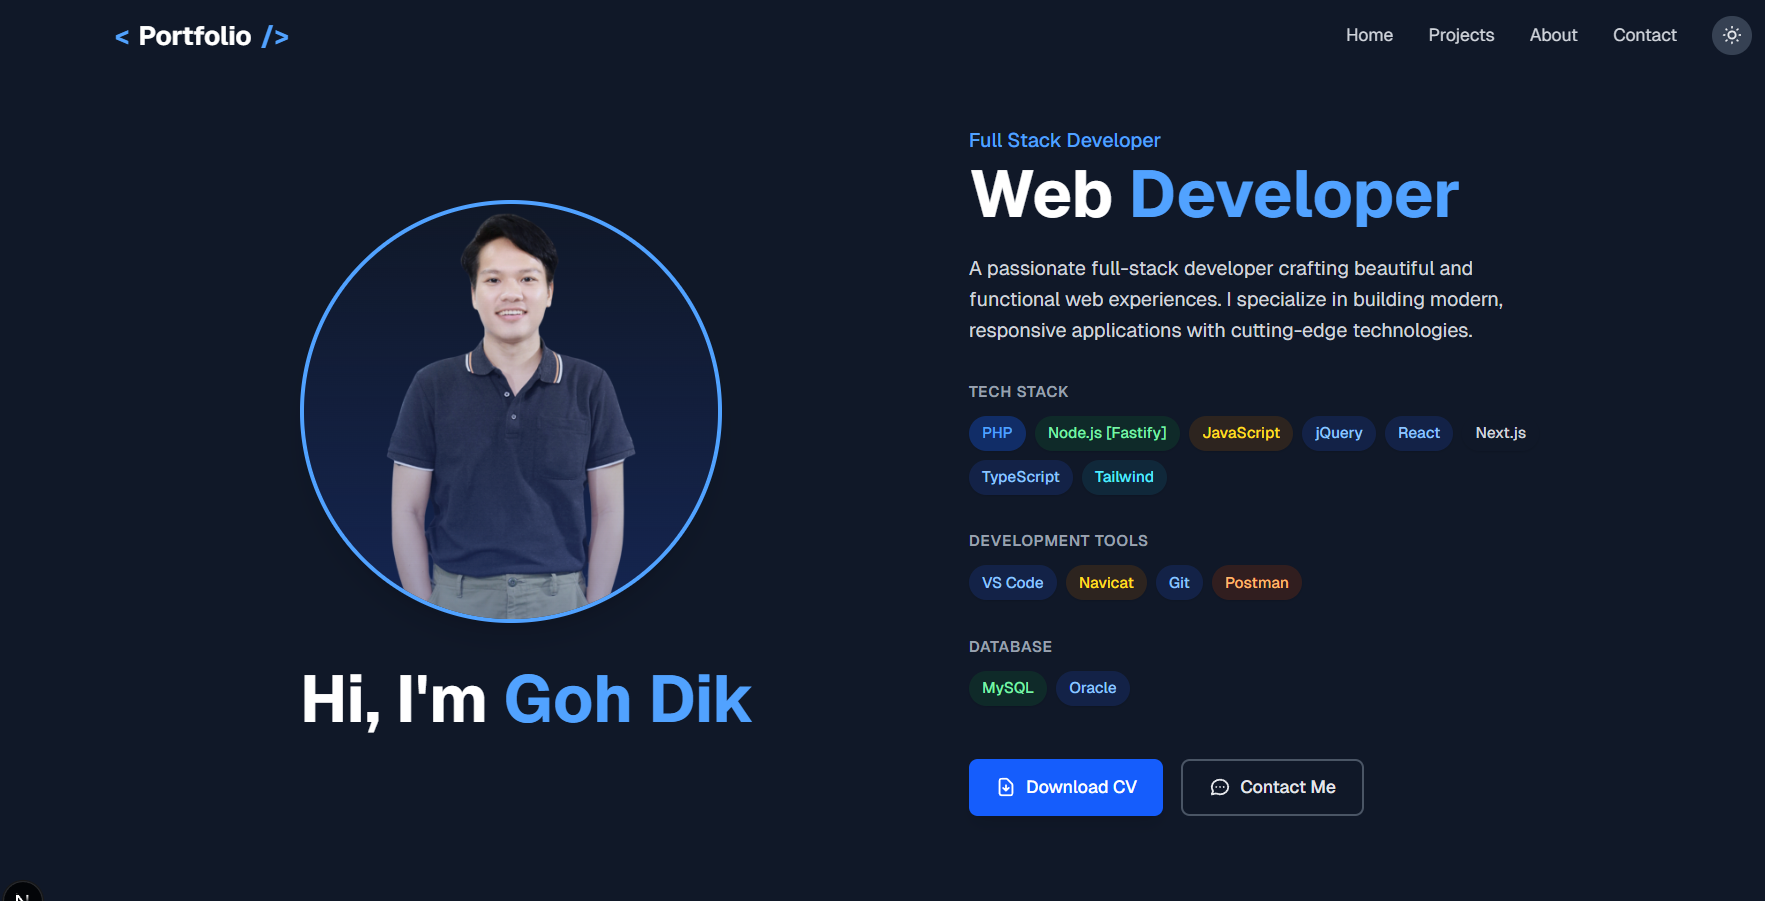
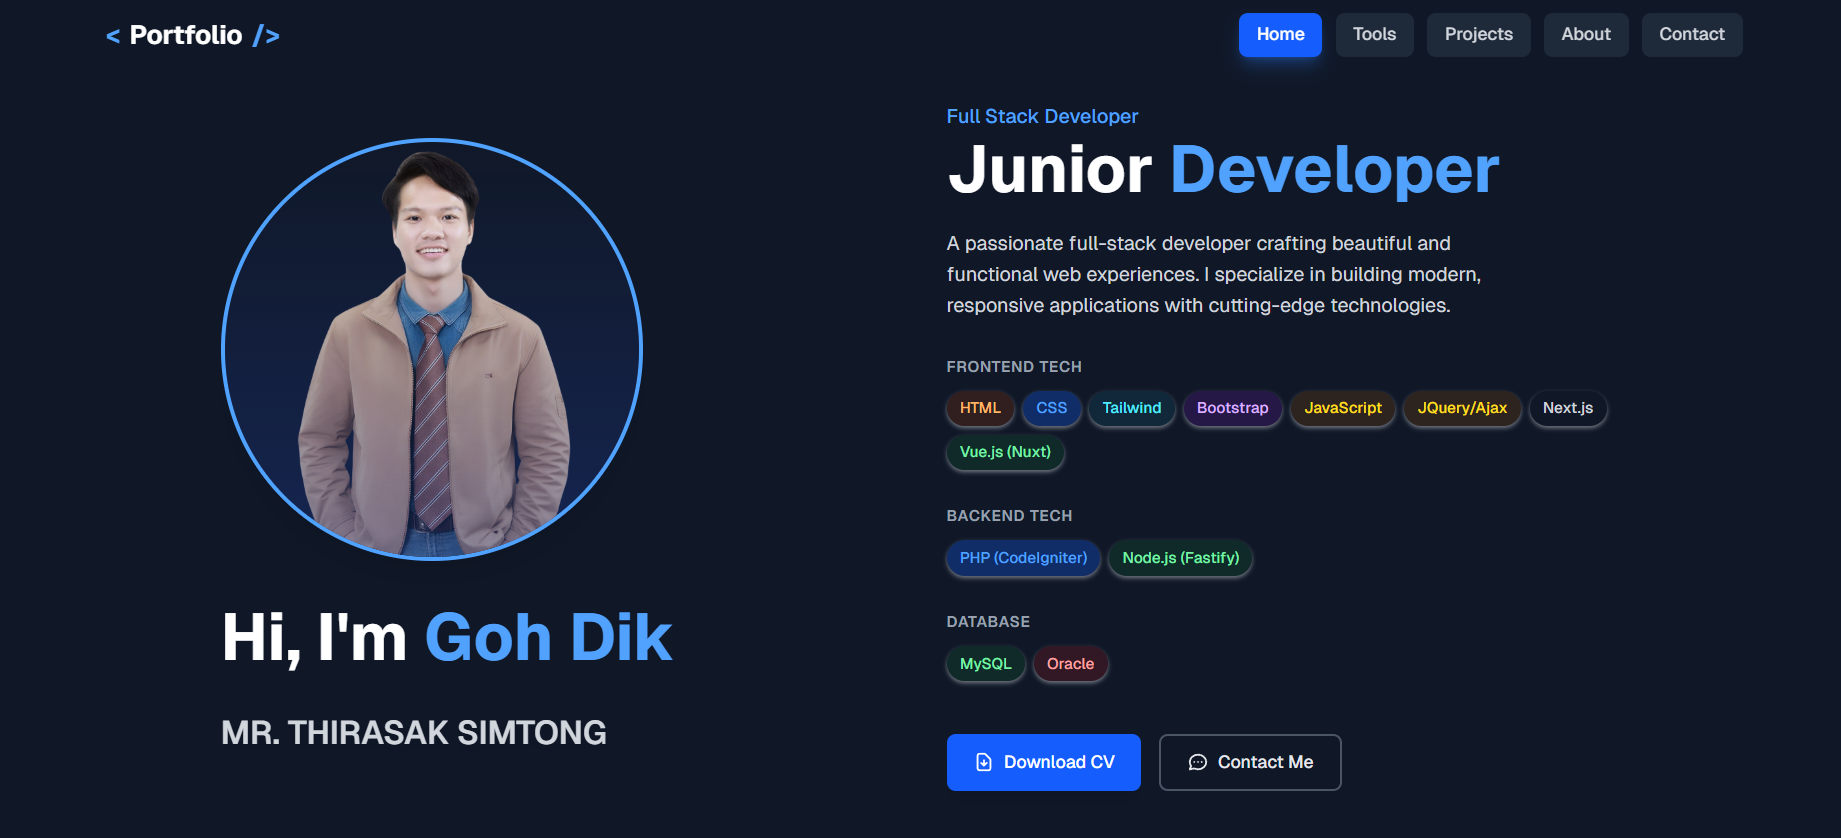
✨ Update project all file

diff --git a/components/About.jsx b/components/About.jsx
@@ -16,42 +16,83 @@ export default function About() {
           <div className="h-1 w-20 bg-blue-600 mx-auto rounded-full"></div>
         </motion.div>
         
-        <div className="grid md:grid-cols-2 gap-12 items-center">
+        <div className="grid md:grid-cols-2 gap-10 items-center">
           {/* Left side - Journey */}
           <motion.div
             initial={{ opacity: 0, x: -20 }}
             animate={{ opacity: 1, x: 0 }}
             transition={{ duration: 0.5, delay: 0.2 }}
             className="space-y-6">
-            <h3 className="text-2xl font-bold text-blue-600 dark:text-blue-400">My Journey</h3>
-            <p className="text-gray-600 dark:text-gray-300 leading-relaxed">
-                Today, I focus on creating accessible and inclusive digital products and experiences for a wide range of clients. I am constantly learning and exploring new technologies to stay current.  
-            </p>
-            <p className="text-gray-600 dark:text-gray-300 leading-relaxed">
-                When I am not in front of my computer, I am often hiking, hanging out with friends, or exploring beautiful landscapes.
-            </p>
-            
             {/* Professional Strengths */}
-            <div className="my-8">
-              <h3 className="text-2xl font-bold text-center text-blue-600 dark:text-blue-400 mb-6">Professional Strengths</h3>
-              <div className="grid grid-cols-1 md:grid-cols-1 gap-6">
+            <div className="my-10">
+              <div className="grid grid-cols-1 md:grid-cols-1 gap-10">
                 {/* Card 1: Problem Solving */}
                 <div className="group relative overflow-hidden rounded-xl bg-gradient-to-br from-blue-50 to-indigo-50 dark:from-gray-800 dark:to-gray-900 p-1">
-                  <div className="absolute inset-0 bg-gradient-to-r from-blue-500 to-indigo-600 opacity-0 group-hover:opacity-10 transition-opacity duration-300"></div>
+                  <div className="absolute inset-0 bg-gradient-to-r from-blue-500 to-indigo-600 opacity-0 group-hover:opacity-10 transition-opacity duration-300">
+                  </div>
                   <div className="relative p-6 h-full flex flex-col">
                     <div className="bg-white dark:bg-gray-800 rounded-full p-3 w-14 h-14 flex items-center justify-center mb-4 shadow-md">
                       <svg className="w-8 h-8 text-blue-600 dark:text-blue-400" fill="none" stroke="currentColor" viewBox="0 0 24 24" xmlns="http://www.w3.org/2000/svg">
                         <path strokeLinecap="round" strokeLinejoin="round" strokeWidth="2" d="M9.663 17h4.673M12 3v1m6.364 1.636l-.707.707M21 12h-1M4 12H3m3.343-5.657l-.707-.707m2.828 9.9a5 5 0 117.072 0l-.548.547A3.374 3.374 0 0014 18.469V19a2 2 0 11-4 0v-.531c0-.895-.356-1.754-.988-2.386l-.548-.547z"></path>
                       </svg>
                     </div>
-                    <h4 className="text-xl font-bold mb-3 text-gray-900 dark:text-white group-hover:text-blue-600 dark:group-hover:text-blue-400 transition-colors duration-300">Junior Developer</h4>
+                    <h4 className="text-xl font-bold mb-3 text-blue-600 dark:text-blue-400 group-hover:text-blue-600 dark:group-hover:text-blue-400 transition-colors duration-300">Strength</h4>
                     <p className="text-gray-600 dark:text-gray-300 flex-grow">Junior Developer with full-cycle development experience, from client requirements to delivery. Strong communicator and team player, seeking a structured dev team to grow and focus on software development.</p>
                     <div className="mt-4 pt-4 border-t border-gray-200 dark:border-gray-700">
-                      <span className="text-blue-600 dark:text-blue-400 text-sm font-medium">Strength</span>
                     </div>
                   </div>
                 </div>
+              </div>
+            </div>
 
+            <div className="bg-white dark:bg-gray-800 p-6 rounded-xl shadow-lg hover:shadow-xl transition-shadow duration-300 relative overflow-hidden">
+              {/* Glow effect */}
+              <div className="absolute -top-10 -right-10 w-40 h-40 bg-blue-400/10 rounded-full blur-3xl"></div>
+              <div className="absolute -bottom-8 -left-8 w-32 h-32 bg-indigo-400/10 rounded-full blur-2xl"></div>
+              
+              <div className="relative z-10">  {/* Content above the glow */}
+                <h3 className="text-2xl font-bold text-blue-600 dark:text-blue-400 mb-4 flex items-center">
+                  <svg className="w-6 h-6 mr-2 drop-shadow-md" fill="none" stroke="currentColor" viewBox="0 0 24 24" xmlns="http://www.w3.org/2000/svg">
+                    <path strokeLinecap="round" strokeLinejoin="round" strokeWidth="2" d="M12 6.253v13m0-13C10.832 5.477 9.246 5 7.5 5S4.168 5.477 3 6.253v13C4.168 18.477 5.754 18 7.5 18s3.332.477 4.5 1.253m0-13C13.168 5.477 14.754 5 16.5 5c1.747 0 3.332.477 4.5 1.253v13C19.832 18.477 18.247 18 16.5 18c-1.746 0-3.332.477-4.5 1.253"></path>
+                  </svg>
+                  My Journey
+                </h3>
+                <p className="text-gray-600 dark:text-gray-300 leading-relaxed border-l-4 border-blue-400 pl-4 italic">
+                I’ve recently taken my skills to the next level by focusing on building visually appealing and modern websites. I’ve been actively working with up-to-date technologies such as <span className="bg-blue-100 dark:bg-blue-900/30 px-1.5 py-0.5 rounded text-blue-800 dark:text-blue-300 font-medium shadow-sm hover:shadow-blue-200/50 dark:hover:shadow-blue-500/20 transition-shadow">Tailwind CSS</span>, <span className="bg-blue-100 dark:bg-blue-900/30 px-1.5 py-0.5 rounded text-blue-800 dark:text-blue-300 font-medium shadow-sm hover:shadow-blue-200/50 dark:hover:shadow-blue-500/20 transition-shadow">Next.js, Nuxt.js</span> for the frontend, along with <span className="bg-blue-100 dark:bg-blue-900/30 px-1.5 py-0.5 rounded text-blue-800 dark:text-blue-300 font-medium shadow-sm hover:shadow-blue-200/50 dark:hover:shadow-blue-500/20 transition-shadow">Node.js + Fastify </span> for backend development. This journey reflects my passion for both design and performance in web development.  
+                </p>
+              </div>
+            </div>
+
+            {/* Interests Section */}
+            <div className="bg-gradient-to-r from-blue-50 to-indigo-50 dark:from-gray-800 dark:to-gray-700 p-6 rounded-xl shadow-lg relative overflow-hidden">
+              {/* Glow effects */}
+              <div className="absolute -top-12 -left-12 w-36 h-36 bg-blue-300/10 rounded-full blur-3xl"></div>
+              <div className="absolute -bottom-10 -right-10 w-40 h-40 bg-indigo-300/10 rounded-full blur-3xl"></div>
+              
+              <div className="relative z-10">  {/* Content above the glow */}
+                <h3 className="text-xl font-bold text-blue-600 dark:text-blue-400 mb-4 flex items-center">
+                  <svg className="w-6 h-6 mr-2 drop-shadow-md" fill="none" stroke="currentColor" viewBox="0 0 24 24" xmlns="http://www.w3.org/2000/svg">
+                    <path strokeLinecap="round" strokeLinejoin="round" strokeWidth="2" d="M14.828 14.828a4 4 0 01-5.656 0M9 10h.01M15 10h.01M21 12a9 9 0 11-18 0 9 9 0 0118 0z"></path>
+                  </svg>
+                  Hobbies & Interests
+                </h3>
+                <div className="grid grid-cols-3 gap-4 mt-4">
+                  <div className="bg-white dark:bg-gray-800 p-3 rounded-lg shadow-md flex flex-col items-center justify-center text-center hover:shadow-lg transition-all transform hover:-translate-y-1 hover:shadow-blue-200/50 dark:hover:shadow-blue-500/20 relative overflow-hidden">
+                    <div className="absolute inset-0 bg-gradient-to-br from-blue-100/30 to-transparent dark:from-blue-500/10 dark:to-transparent opacity-0 hover:opacity-100 transition-opacity duration-300"></div>
+                    <span className="text-3xl mb-2 relative z-10 drop-shadow-sm">🌄</span>
+                    <span className="font-medium text-gray-800 dark:text-gray-200 relative z-10">Hiking</span>
+                  </div>
+                  <div className="bg-white dark:bg-gray-800 p-3 rounded-lg shadow-md flex flex-col items-center justify-center text-center hover:shadow-lg transition-all transform hover:-translate-y-1 hover:shadow-blue-200/50 dark:hover:shadow-blue-500/20 relative overflow-hidden">
+                    <div className="absolute inset-0 bg-gradient-to-br from-blue-100/30 to-transparent dark:from-blue-500/10 dark:to-transparent opacity-0 hover:opacity-100 transition-opacity duration-300"></div>
+                    <span className="text-3xl mb-2 relative z-10 drop-shadow-sm">🎵</span>
+                    <span className="font-medium text-gray-800 dark:text-gray-200 relative z-10">Sing</span>
+                  </div>
+                  <div className="bg-white dark:bg-gray-800 p-3 rounded-lg shadow-md flex flex-col items-center justify-center text-center hover:shadow-lg transition-all transform hover:-translate-y-1 hover:shadow-blue-200/50 dark:hover:shadow-blue-500/20 relative overflow-hidden">
+                    <div className="absolute inset-0 bg-gradient-to-br from-blue-100/30 to-transparent dark:from-blue-500/10 dark:to-transparent opacity-0 hover:opacity-100 transition-opacity duration-300"></div>
+                    <span className="text-3xl mb-2 relative z-10 drop-shadow-sm">📷</span>
+                    <span className="font-medium text-gray-800 dark:text-gray-200 relative z-10">Photography</span>
+                  </div>
+                </div>
               </div>
             </div>
           </motion.div>
@@ -69,7 +110,21 @@ export default function About() {
                   <div className="absolute w-4 h-4 bg-blue-600 dark:bg-blue-400 rounded-full -left-[9px] top-0"></div>
                   <h4 className="text-lg font-bold">Junior Developer</h4>
                   <p className="text-blue-600 dark:text-blue-400">BIZPOTENTIAL • Present</p>
-                  <p className="mt-2 text-gray-600 dark:text-gray-300">Developing web applications using PHP (CodeIgniter), MySQL, Oracle, JavaScript, jQuery, and Bootstrap.</p>
+                  <p className="mt-2 text-gray-600 dark:text-gray-300">Developing and maintaining web applications using PHP (CodeIgniter), MySQL, Oracle, JavaScript, jQuery/ajax, and Bootstrap. Key responsibilities include:</p>
+                  <ul className="mt-2 list-disc list-inside text-gray-600 dark:text-gray-300 ml-2">
+                    <li>Developed ERP modules based on organizational needs </li>
+                    <li>Analyzed user requirements and implemented system enhancements based on feedback</li>
+                    <li>Provided technical support, resolved issues, and offered system usage guidance</li>
+                    <li>Participated in stakeholder meetings for requirement gathering and continuous improvement</li>
+                    <li>Developed and maintained internal information systems to ensure stability and efficiency</li>
+                    <li>Worked on systems such as:
+                      <ul className="ml-6 mt-1 list-disc list-inside text-gray-600 dark:text-gray-300">
+                        <li>Financial Information System for Cooperatives</li>
+                        <li>Cooperative Membership & Shareholding System</li>
+                        <li>Farmer Database Management System</li>
+                      </ul>
+                    </li>
+                  </ul>
                 </div>
               </div>
             </div>

diff --git a/data/projects.ts b/data/projects.ts
@@ -1,7 +1,7 @@
 const projects = [
     {
         name: 'my-portfolio-spa',
-        description: 'Portfolio Online',
+        description: 'Portfolio Single Page Application',
         tech: ['Next.js', 'Tailwind', 'JavaScript'],
         image: '/my_profile.png',
         github: 'https://github.com/gohdick/my-portfolio-spa',
@@ -9,7 +9,7 @@ const projects = [
     },
     {
         name: 'store-wine',
-        description: 'เว็บไซต์ขายไวน์',
+        description: 'WebApplication for Wine Store',
         tech: ['Node.js (Fastify)', 'Frontend: Vue.js (Nuxt)', 'MySQL', 'Tailwind', 'JavaScript', 'JWT', 'RESTful API'],
         features: ['JWT'],
         image: '/wine_01.png',
@@ -17,22 +17,13 @@ const projects = [
         demo: '#'
     },
     {
-        name: 'daily-expense',
-        description: 'ระบบบันทึกค่าใช้จ่ายรายวัน',
-        tech: ['Next.js', 'Tailwind', 'JavaScript'],
-        image: '/daily_expense_p1.png',
-        github: 'https://github.com/gohdick/daily-expense',
-        demo: 'https://daily-expense.goohdik.dev'
-    },
-    {
-        name: 'habit-tracker',
-        description: 'ระบบ Habit Tracker (ติดตามนิสัยดี ๆ)',
-        tech: ['Next.js', 'Tailwind', 'JavaScript'],
-        image: '/habit_tracker_p1.png',
-        github: 'https://github.com/gohdick/habit-tracker',
-        demo: 'https://habit-tracker.goohdik.dev'
+        name: 'weather-app',
+        description: 'WebApplication for Weather',
+        tech: ['Nuxt', 'Tailwind', 'JavaScript', 'API OpenWeatherMap'],
+        image: '/weather_01.png',
+        github: '#',
+        demo: '#'
     }
-
 ]
 
 export default projects

diff --git a/data/Toolsandskills.ts b/data/Toolsandskills.ts
@@ -1,20 +1,6 @@
 // Category data
 export const categories = [
   {
-    name: "AI Tools",
-    icons: ["/icons8-chatgpt.svg", "/claude-ai-icon.svg"],
-    iconAlts: ["ChatGPT", "Claude"],
-    color: "from-blue-500 to-purple-600",
-    shadowColor: "rgba(59, 130, 246, 0.5)"
-  },
-  {
-    name: "Design Tools",
-    icons: ["/icons8-photoshop.svg", "/icons8-canva.svg"],
-    iconAlts: ["Photoshop", "Canva"],
-    color: "from-pink-500 to-red-500",
-    shadowColor: "rgba(236, 72, 153, 0.5)"
-  },
-  {
     name: "Development Tools",
     icons: ["/icons8-visual-studio.svg", "/icons8-navicat.svg", "/icons8-git.svg", "/icons8-github.svg", "/postman-icon.svg", "/Cloudflare-Logo.wine.png", "/Nginx-proxy-manager.png"],
     iconAlts: ["VS Code", "Navicat", "Git", "GitHub", "Postman", "Cloudflare", "Nginx"],
@@ -28,6 +14,20 @@ export const categories = [
     color: "from-green-500 to-teal-500",
     shadowColor: "rgba(16, 185, 129, 0.5)"
   },
+  {
+    name: "AI Tools",
+    icons: ["/icons8-chatgpt.svg", "/claude-ai-icon.svg"],
+    iconAlts: ["ChatGPT", "Claude"],
+    color: "from-blue-500 to-purple-600",
+    shadowColor: "rgba(59, 130, 246, 0.5)"
+  },
+  {
+    name: "Design Tools",
+    icons: ["/icons8-photoshop.svg", "/icons8-canva.svg"],
+    iconAlts: ["Photoshop", "Canva"],
+    color: "from-pink-500 to-red-500",
+    shadowColor: "rgba(236, 72, 153, 0.5)"
+  }
 ]
 
 export default categories

diff --git a/components/Contact.jsx b/components/Contact.jsx
@@ -55,7 +55,7 @@ export default function Contact() {
           <h2 className="text-3xl md:text-4xl font-bold mb-4">Contact Me</h2>
           <div className="h-1 w-20 bg-blue-600 mx-auto rounded-full"></div>
           <p className="mt-6 text-gray-600 dark:text-gray-300 max-w-2xl mx-auto">
-            Have a project in mind or just want to say hello? Feel free to reach out. I'm always open to discussing new projects, creative ideas, or opportunities to be part of your vision.
+          Looking for a collaborator or need help with a project? I'm currently open to new job opportunities as well as freelance work. Feel free to reach out — I'm always happy to discuss new ideas, exciting projects, or ways I can contribute to your team or vision.
           </p>
         </motion.div>
         

diff --git a/components/Projects.jsx b/components/Projects.jsx
@@ -28,6 +28,10 @@ export default function Projects() {
           <div className="h-1 w-20 bg-blue-600 mx-auto rounded-full"></div>
           <p className="mt-6 text-gray-600 dark:text-gray-300 max-w-2xl mx-auto">
             Here are some of my recent projects. Each one was carefully crafted with attention to detail, performance, and user experience.  
+            
+          </p>
+          <p className="mt-2 text-gray-600 dark:text-gray-300 max-w-2xl mx-auto">
+          Please note that some projects cannot be publicly disclosed, as they involve internal systems developed for the company I work for.
           </p>
         </motion.div>
         
